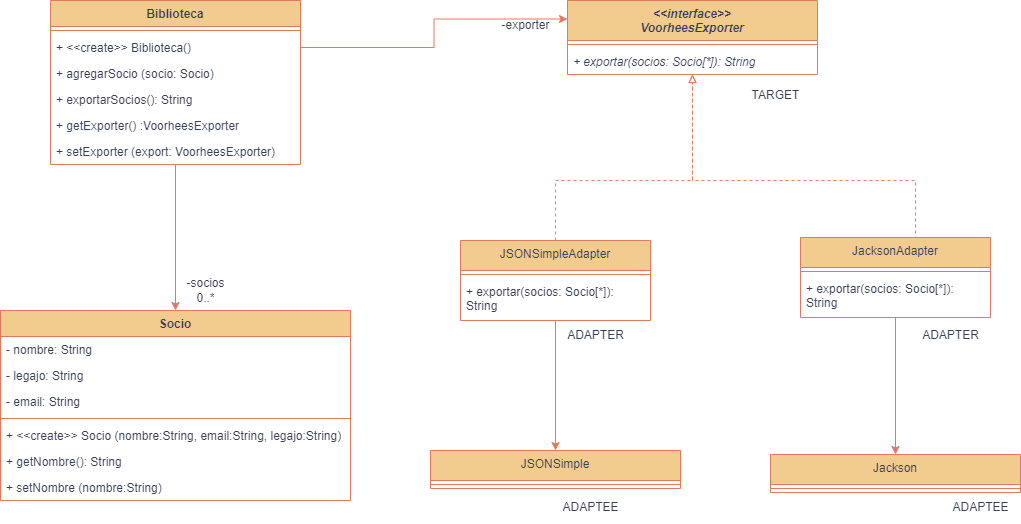
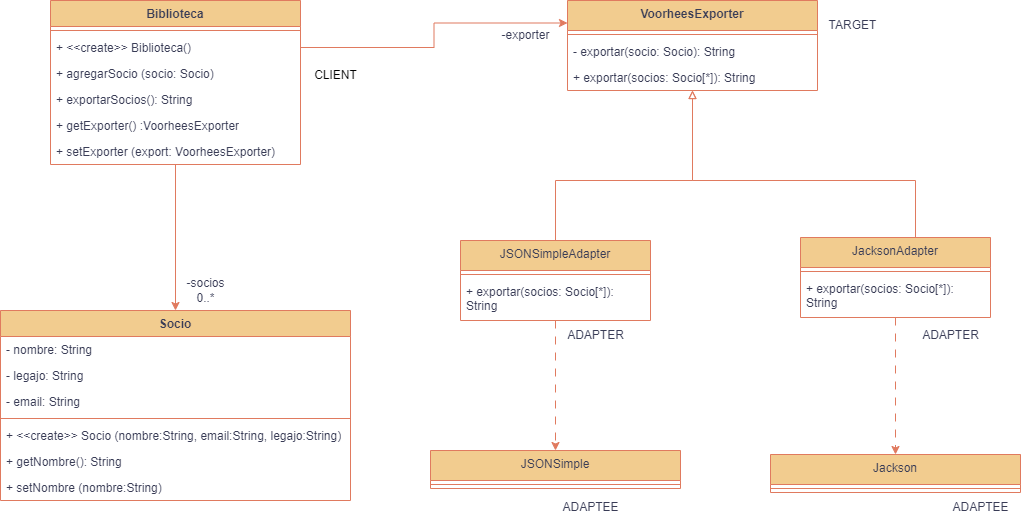
correcciones

diff --git a/PRACTICAS/ejercicio2-Biblioteca/Ejercicio2b-Biblioteca/src/test/java/ar/edu/unlp/info/oo2/biblioteca/BibliotecaTest.java b/PRACTICAS/ejercicio2-Biblioteca/Ejercicio2b-Biblioteca/src/test/java/ar/edu/unlp/info/oo2/biblioteca/BibliotecaTest.java
@@ -1,5 +1,6 @@
 package ar.edu.unlp.info.oo2.biblioteca;
 
+import static org.junit.Assert.assertEquals;
 import static org.junit.jupiter.api.Assertions.assertTrue;
 import java.util.ArrayList;
 import java.util.List;
@@ -11,36 +12,36 @@ import org.json.simple.parser.ParseException;
 
 public class BibliotecaTest {
 	private Biblioteca biblioteca;
-	private Socio arya;
-	private Socio tyron;
 	
 	@BeforeEach
 	public void setUp() throws Exception{
-	
 		biblioteca = new Biblioteca();
-		arya=new Socio("Arya Stark", "needle@stark.com", "5234-5");
-		tyron=new Socio("Tyron Lannister", "tyron@thelannisters.com",  "2345-2");
-		biblioteca.agregarSocio(arya);
-		biblioteca.agregarSocio(tyron);
+		biblioteca.setExporter(new JSONSimpleAdapter()); // 		biblioteca.setExporter(new JacksonAdapter());
 	}
 	
 	@Test
-	public void testExportarSocios() throws ParseException {
+	public void testExportarSocios() throws ParseException{
+		JSONParser parseo = new JSONParser();
+		String textoSalida = "[\n"
+				+ "	{\n"
+				+ "		\"nombre\": \"Arya Stark\",\n"
+				+ "		\"email\": \"needle@stark.com\",\n"
+				+ "		\"legajo\": \"5234-5\"\n"
+				+ "	},\n"
+				+ "	{\n"
+				+ "		\"nombre\": \"Tyron Lannister\",\n"
+				+ "		\"email\": \"tyron@thelannisters.com\",\n"
+				+ "		\"legajo\": \"2345-2\"\n"
+				+ "	}\n"
+				+ "]\n"
+				+ "";
 		
-		Object obj = new JSONParser().parse(biblioteca.exportarSocios());
-		JSONArray arrayJSON = (JSONArray) obj;
+		assertEquals(parseo.parse("[]"),parseo.parse(this.biblioteca.exportarSocios())); //VACIO
 		
-		List<Socio> arrayComparador = new ArrayList<Socio>();
-		arrayComparador.add(arya);
-		arrayComparador.add(tyron);
+		biblioteca.agregarSocio(new Socio("Arya Stark", "needle@stark.com", "5234-5"));
+		biblioteca.agregarSocio(new Socio("Tyron Lannister", "tyron@thelannisters.com",  "2345-2"));
 		
+		assertEquals(parseo.parse(textoSalida),parseo.parse(this.biblioteca.exportarSocios()));
 		
-		for (int i=0;i<arrayJSON.size();i++) {
-			JSONObject objectJSON= (JSONObject) arrayJSON.get(i);
-			assertTrue(arrayComparador.get(i).getNombre().equals(objectJSON.get("nombre")));
-			assertTrue(arrayComparador.get(i).getEmail().equals(objectJSON.get("email")));
-			assertTrue(arrayComparador.get(i).getLegajo().equals(objectJSON.get("legajo")));
-			
-		}
 	}
 }

diff --git a/PRACTICAS/ejercicio2-Biblioteca/Ejercicio2b-Biblioteca/src/main/java/ar/edu/unlp/info/oo2/biblioteca/VoorheesExporter.java b/PRACTICAS/ejercicio2-Biblioteca/Ejercicio2b-Biblioteca/src/main/java/ar/edu/unlp/info/oo2/biblioteca/VoorheesExporter.java
@@ -2,7 +2,31 @@ package ar.edu.unlp.info.oo2.biblioteca;
 
 import java.util.List;
 
-public interface VoorheesExporter {
+public class VoorheesExporter {
 
-	public String exportar(List<Socio> socios);
+	private String exportar(Socio socio) {
+		String separator = System.lineSeparator();
+		return "\t{" + separator
+			+ "\t\t\"nombre\": \"" + socio.getNombre() + "\"," + separator
+			+ "\t\t\"email\": \"" + socio.getEmail() + "\"," + separator
+			+ "\t\t\"legajo\": \"" + socio.getLegajo() + "\"" + separator
+			+ "\t}";
+	}
+
+	public String exportar(List<Socio> socios) {
+		if (socios.isEmpty()) {
+			return "[]";
+		}
+		String separator = System.lineSeparator();
+		StringBuilder buffer = new StringBuilder("[" + separator);
+		socios.forEach(socio -> {
+			buffer.append(this.exportar(socio))
+				.append(",")
+				.append(separator);
+		});
+		// remueve la última coma y fin de línea
+		buffer.setLength(buffer.length() - (separator.length() + 1));
+		buffer.append(separator).append("]");
+		return buffer.toString();
+	}
 }

diff --git a/PRACTICAS/ejercicio2-Biblioteca/Ejercicio2b-Biblioteca/src/main/java/ar/edu/unlp/info/oo2/biblioteca/JacksonAdapter.java b/PRACTICAS/ejercicio2-Biblioteca/Ejercicio2b-Biblioteca/src/main/java/ar/edu/unlp/info/oo2/biblioteca/JacksonAdapter.java
@@ -4,7 +4,7 @@ import java.util.List;
 import com.fasterxml.jackson.core.JsonProcessingException;
 import com.fasterxml.jackson.databind.ObjectMapper;
 
-public class JacksonAdapter implements VoorheesExporter{
+public class JacksonAdapter extends VoorheesExporter{
 
 	@Override
 	public String exportar(List<Socio> socios) {

diff --git a/PRACTICAS/ejercicio2-Biblioteca/Ejercicio2b-Biblioteca/src/main/java/ar/edu/unlp/info/oo2/biblioteca/JSONSimpleAdapter.java b/PRACTICAS/ejercicio2-Biblioteca/Ejercicio2b-Biblioteca/src/main/java/ar/edu/unlp/info/oo2/biblioteca/JSONSimpleAdapter.java
@@ -5,7 +5,7 @@ import java.util.List;
 import org.json.simple.JSONArray;
 import org.json.simple.JSONObject;
 
-public class JSONSimpleAdapter implements VoorheesExporter {
+public class JSONSimpleAdapter extends VoorheesExporter {
 	
 	private Object crearJSONSocio (Socio socio){
 		

diff --git a/PRACTICAS/ejercicio2-Biblioteca/Ejercicio2b-Biblioteca/src/main/java/ar/edu/unlp/info/oo2/biblioteca/Biblioteca.java b/PRACTICAS/ejercicio2-Biblioteca/Ejercicio2b-Biblioteca/src/main/java/ar/edu/unlp/info/oo2/biblioteca/Biblioteca.java
@@ -9,7 +9,7 @@ public class Biblioteca {
 
 	public Biblioteca() {
 		socios = new ArrayList<>();
-		exporter= new JacksonAdapter(); //new JSONSimpleAdapter;
+		exporter= new VoorheesExporter(); 
 	}
 
 	public void agregarSocio(Socio socio) {
